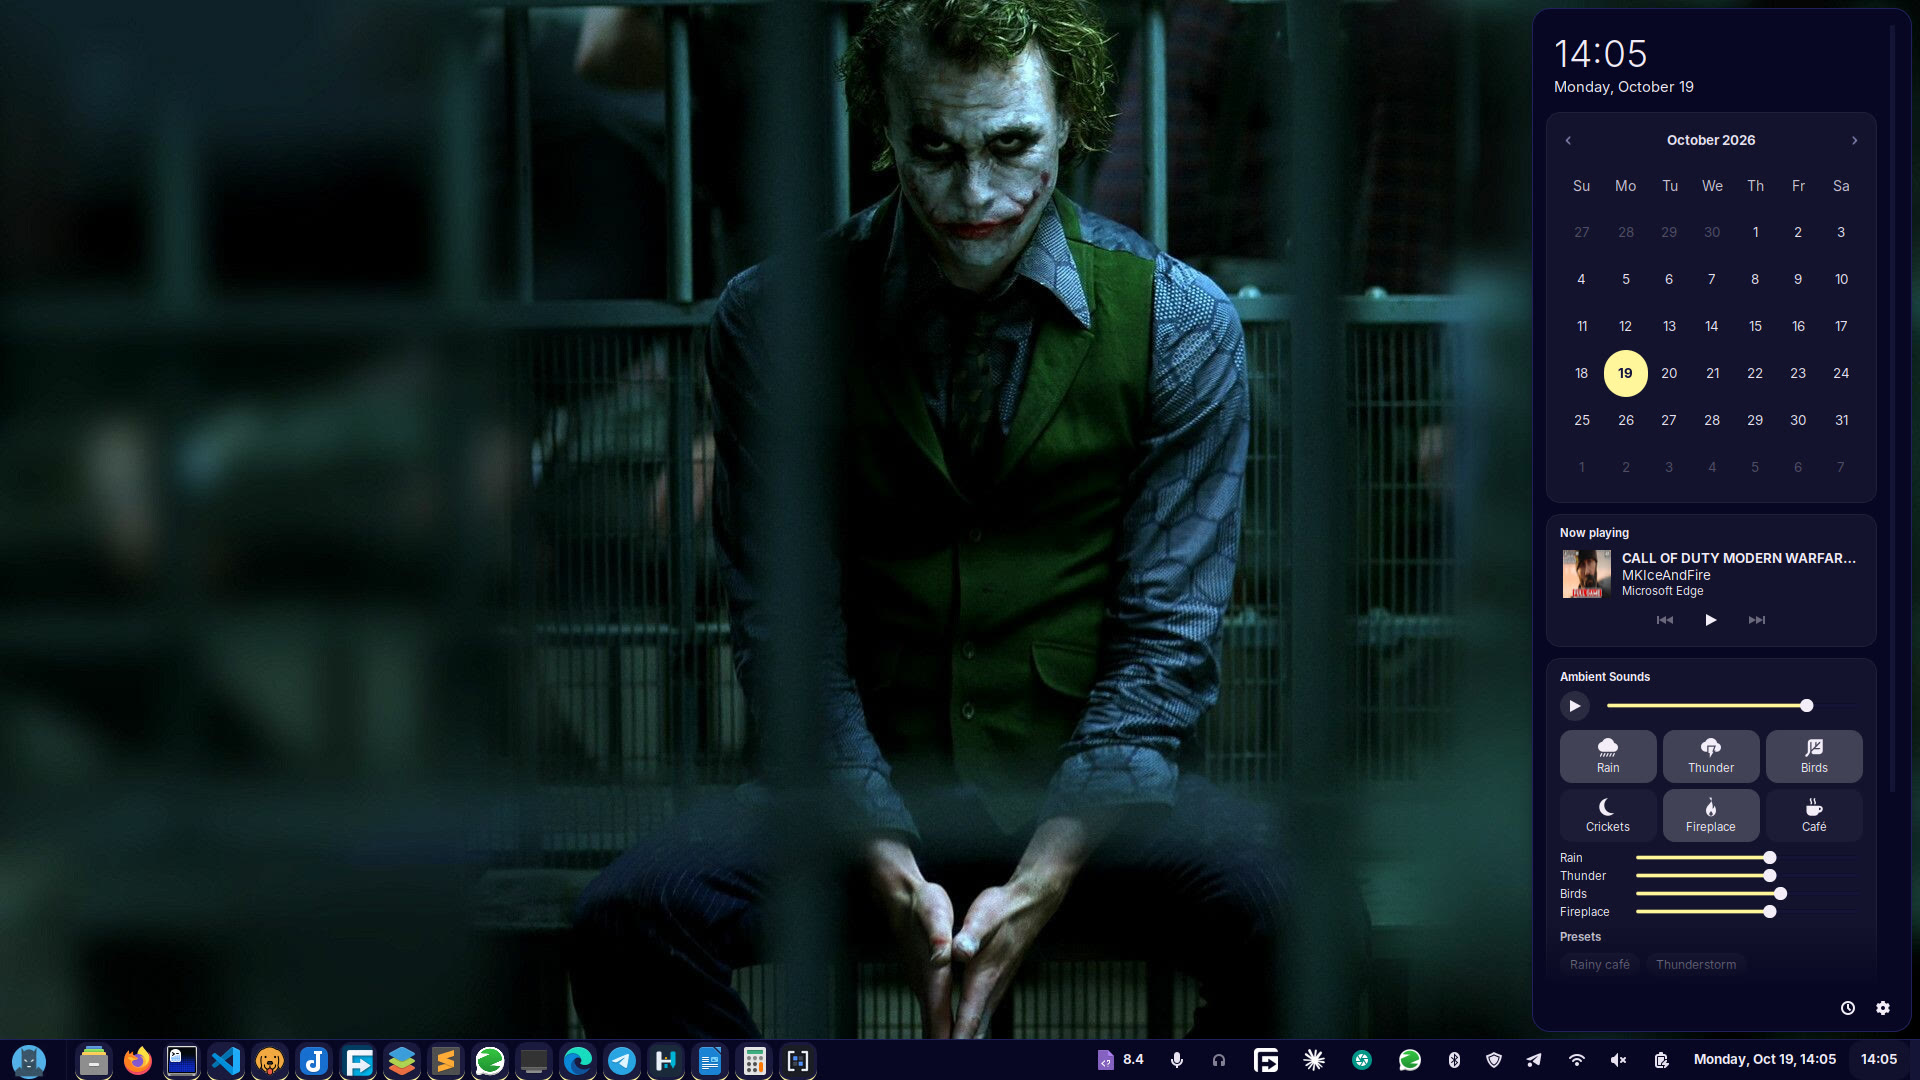
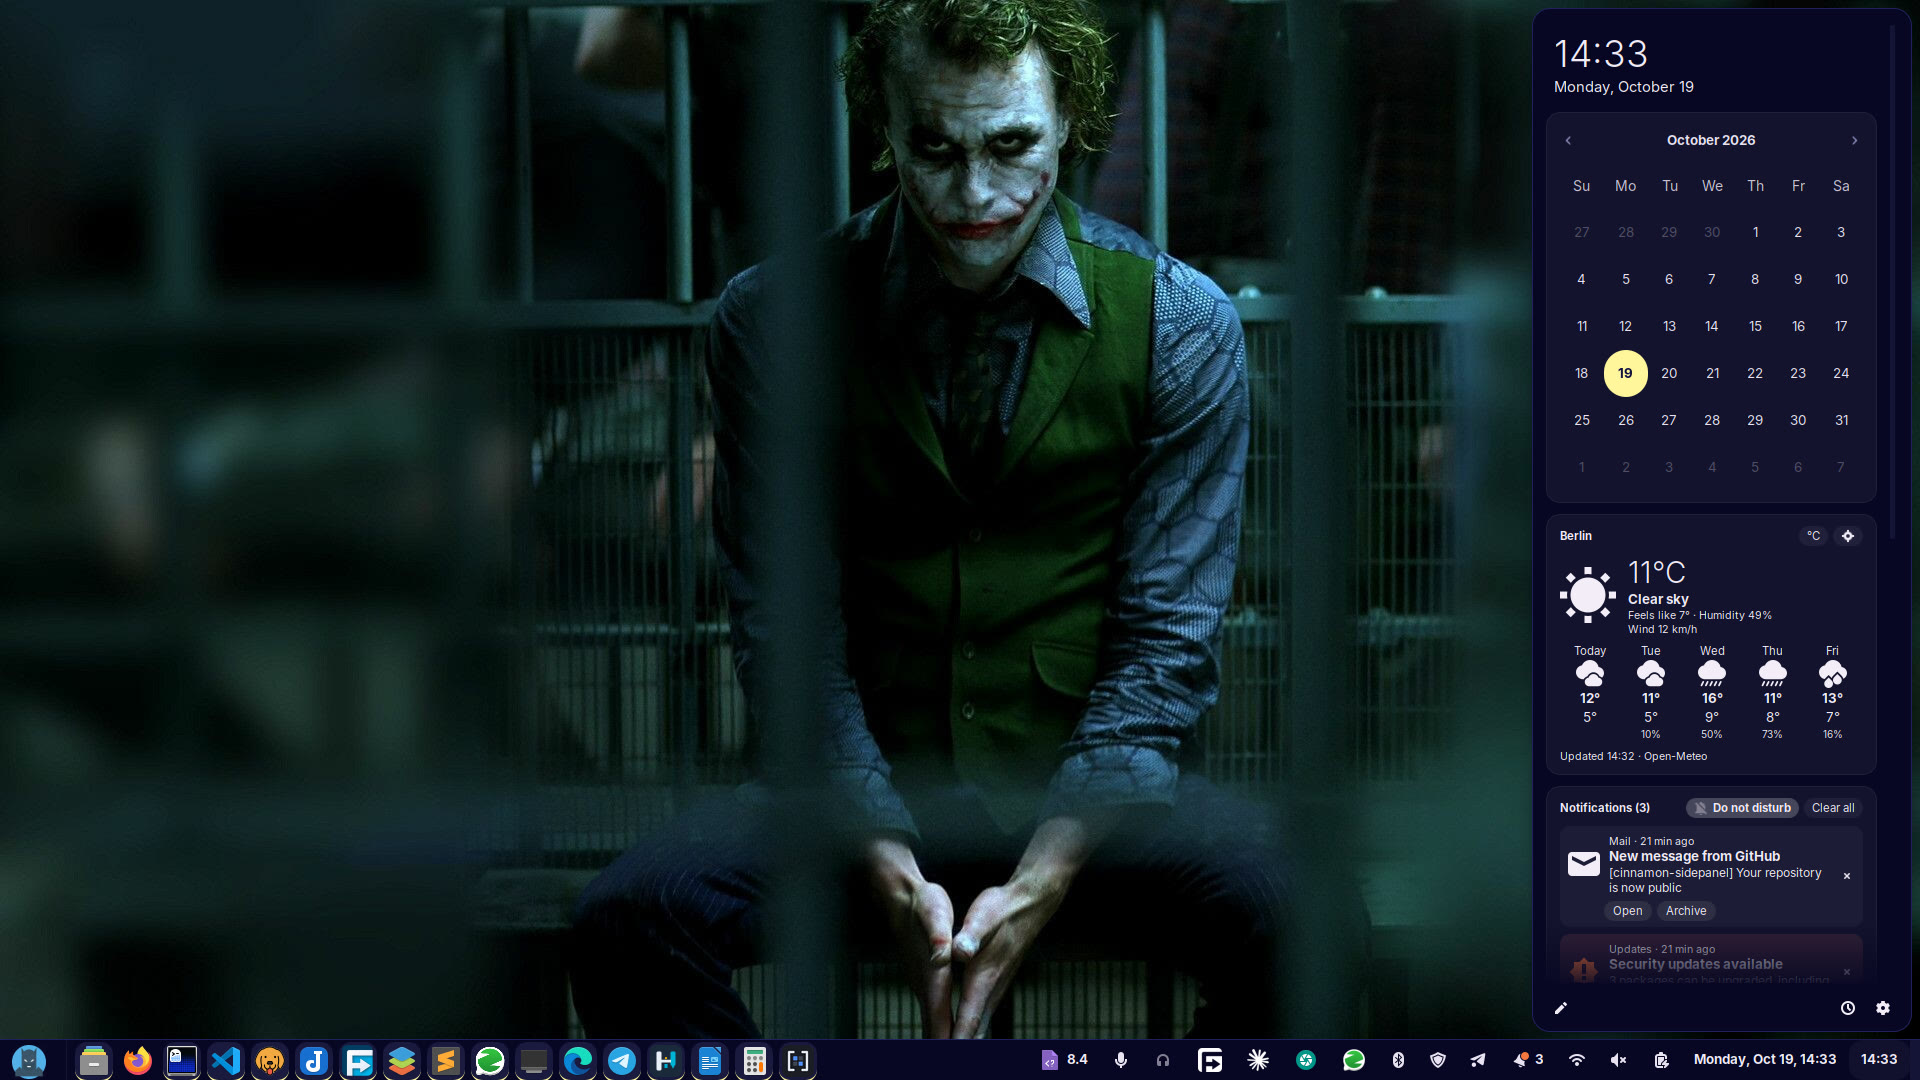
Update README screenshots for all four phases

Changed region(s): [[0.8125, 0.4889, 0.9688, 0.9167], [0.5312, 0.9472, 0.8125, 1.0], [0.8438, 0.0306, 0.875, 0.0611]]

diff --git a/README.md b/README.md
@@ -7,7 +7,7 @@ it as a notification centre and dashboard for Linux Mint.
 
 <p align="center">
   <img src="docs/panel-bottom.png" alt="The side panel scrolled down: Ambient Sounds presets and sleep timer, and app volume" width="300">
-  <br><em>Scrolled down: Ambient Sounds presets and sleep timer, and app volume.</em>
+  <br><em>Scrolled down: the rest of the notifications, now playing, Ambient Sounds and app volume.</em>
 </p>
 
 **Status:** all four planned phases are done: the panel, calendar and media
@@ -28,11 +28,15 @@ widgets show and in what order.
 
 ## Customising
 
+<img src="docs/customise.png" alt="The side panel in customise mode, with move and hide buttons on each widget" width="300" align="right">
+
 Click the pencil in the panel's footer to customise. Each widget gets
 buttons to move it up or down or hide it, and hidden widgets are listed at
 the bottom with an **Add** button. Click the tick, or close the panel, when
 you're done. Changes apply straight away without reloading the other
 widgets.
+
+<br clear="right">
 
 ## Do not disturb
 
